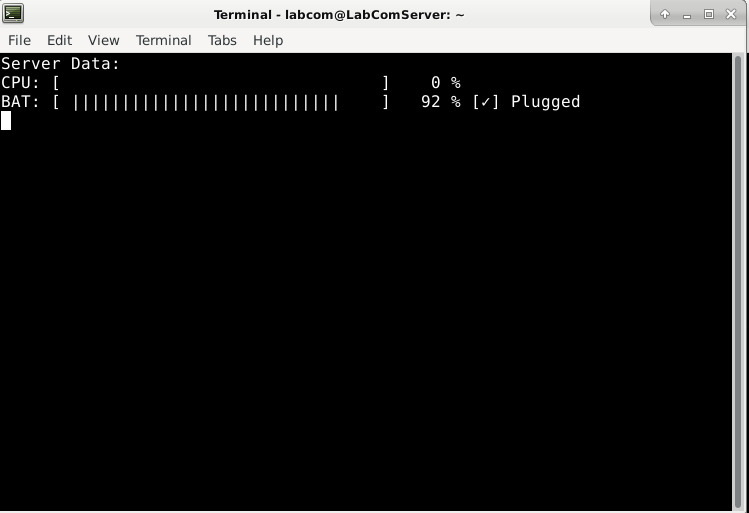
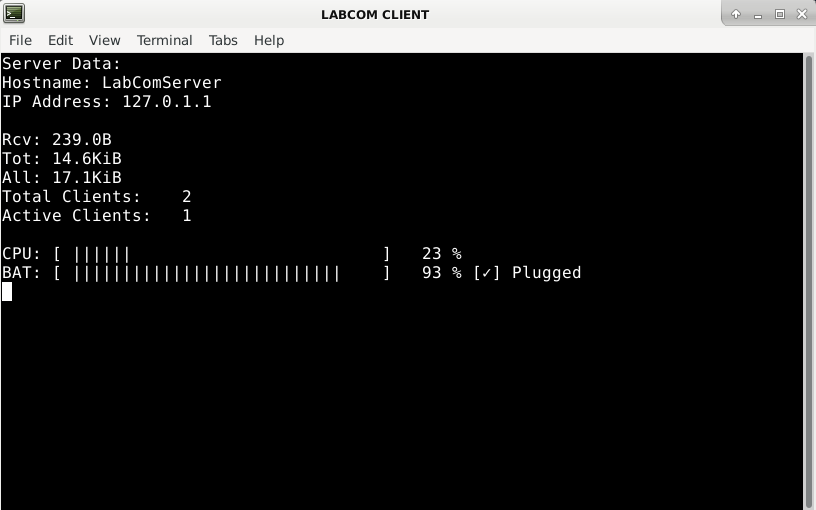
updated server and client files

diff --git a/server/server.py b/server/server.py
@@ -34,21 +34,55 @@ def data_manager(option):
 
     return data 
 
+clients = {}
+active_clients = 0
+
 def handle_client_connection(client_socket, address):
-    print(f"Accepted connection from {address[0]}:{address[1]}")
+    global active_clients
+
+    client_id = f"{address[0]}:{address[1]}"
+
+    print(f"Accepted connection from {client_id}")
     headerformat='!BLL'
     try:
         result = get_data(client_socket, headerformat)
         option = int(result["message"])
 
         if option > 0:
-            print(f"Client ({address[0]}:{address[1]}) chose [{option}] {OPTIONS[option-1]}")
+            print(f"Client ({client_id}) chose [{option}] {OPTIONS[option-1]}")
+
+        clients[client_id] = 0
+        active_clients += 1
 
         while True:
-            result['message'] = json.dumps(data_manager(option))
+            # machine info
+            data = data_manager(option)
+
+            # server info
+            data["hostname"] = socket.gethostname()
+            data["ip_addr"] = socket.gethostbyname(data["hostname"])
+
+            data["n_active_clients"] = active_clients
+            data["n_clients"] = len(clients)
+
+            # init so that it counts in the total size
+            data["bytes"] = 0
+            data["total_bytes"] = clients[client_id]
+            data["total_bytes_all"] = sum(clients.values())
+
+            # update values with updated size
+            data["bytes"] = len(json.dumps(data).encode())
+            clients[client_id] += data["bytes"]
+            data["total_bytes"] = clients[client_id]
+            data["total_bytes_all"] = sum(clients.values())
+
+            result['message'] = json.dumps(data)
             send_data(client_socket, headerformat, result)
 
     except (socket.timeout, socket.error):
+        # remove active client
+        active_clients-=1
+
         print(f"Client {address} error. Done!")
     finally:
         client_socket.close()

diff --git a/client/client.py b/client/client.py
@@ -34,6 +34,13 @@ def print_bar(title, percentage, bar_end=""):
     print("|"*(bar), f'{" "*blank}] ', end="")
     print(f'{percentage:4d}', "%", end=bar_end)
 
+# https://stackoverflow.com/a/1094933/11488921
+def sizeof_fmt(num, suffix="B"):
+    for unit in ["", "Ki", "Mi", "Gi", "Ti", "Pi", "Ei", "Zi"]:
+        if abs(num) < 1024.0:
+            return f"{num:3.1f}{unit}{suffix}"
+        num /= 1024.0
+    return f"{num:.1f}Yi{suffix}"
 
 headerformat='!BLL'
 order = 0
@@ -52,6 +59,17 @@ while True:
             os.system('clear')
 
             print("Server Data:")
+            
+            print(f"Hostname: {values['hostname']}")
+            print(f"IP Address: {values['ip_addr']}")
+            print("")
+
+            print(f"Rcv: {sizeof_fmt(values['bytes'])}")
+            print(f"Tot: {sizeof_fmt(values['total_bytes'])}")
+            print(f"All: {sizeof_fmt(values['total_bytes_all'])}")
+            print(f"Total Clients:  {values['n_clients']:3d}")
+            print(f"Active Clients: {values['n_active_clients']:3d}")
+            print("")
 
             if option in ['1','2']:
                 cpu_percentage = int(float(values['cpu_usage']))
